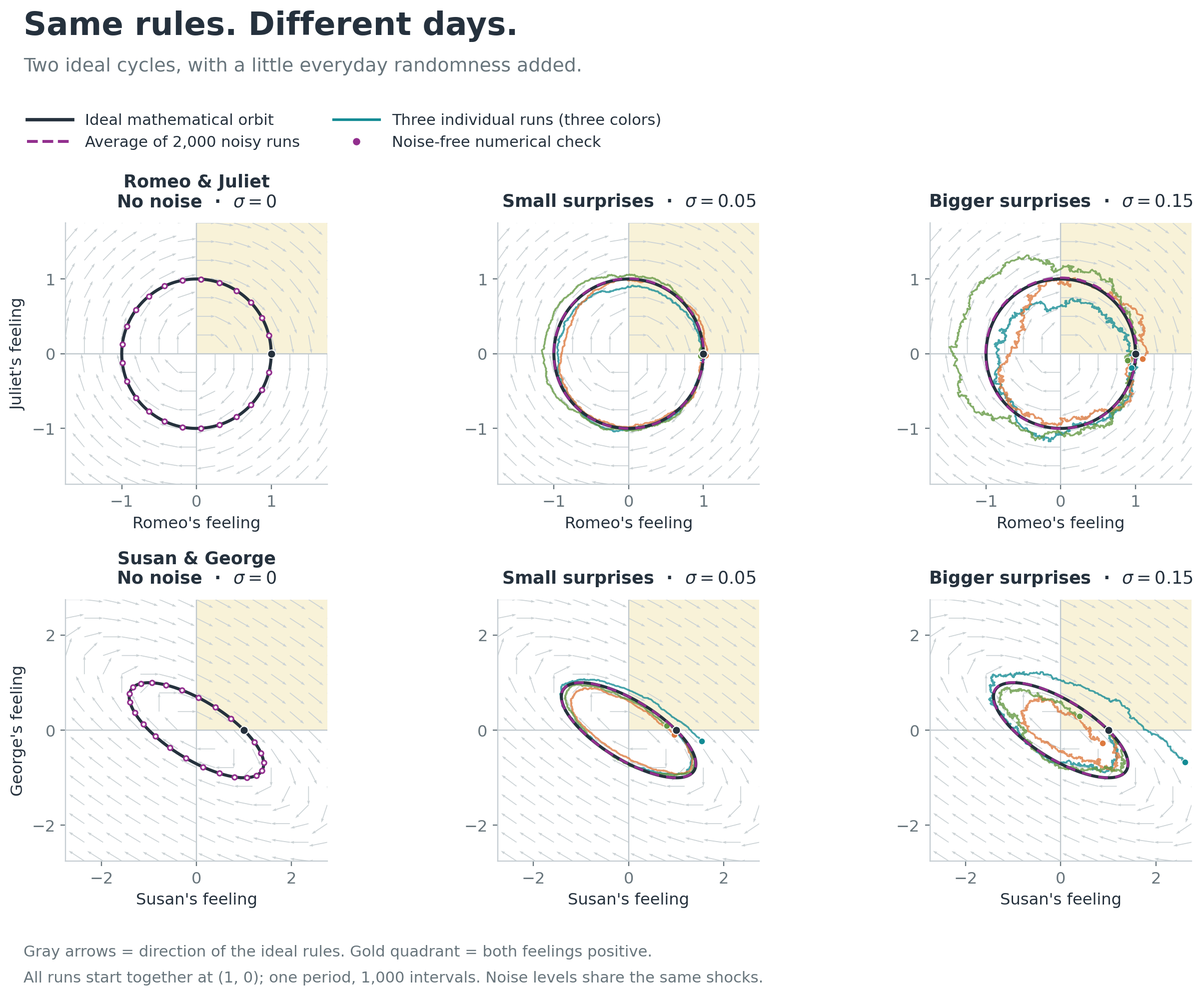
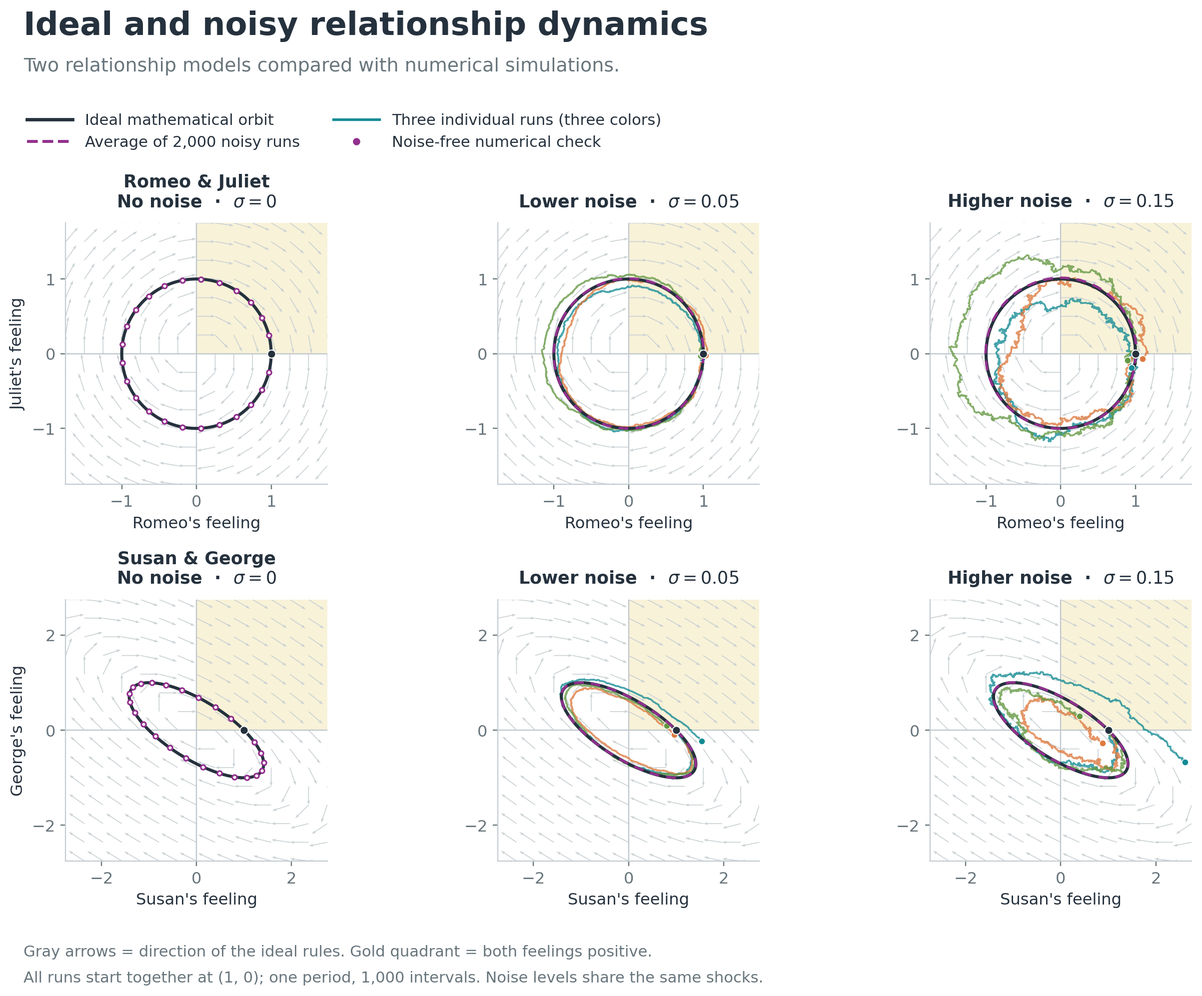
docs: write the Fable experiment in first person

diff --git a/illustrate-dynamics.py b/illustrate-dynamics.py
@@ -188,15 +188,15 @@ def save_figure(fig, directory, name):
 def noise_overlay(data, directory):
     fig, axes = plt.subplots(2, 3, figsize=(12.6, 9.65))
     fig.subplots_adjust(left=0.07, right=0.985, top=0.77, bottom=0.14, wspace=0.25, hspace=0.44)
-    fig.text(0.07, 0.98, "Same rules. Different days.", fontsize=22, weight="bold", va="top")
-    fig.text(0.07, 0.92, "Two ideal cycles, with a little everyday randomness added.", fontsize=13, color=GRAY)
+    fig.text(0.07, 0.98, "Ideal and noisy relationship dynamics", fontsize=22, weight="bold", va="top")
+    fig.text(0.07, 0.92, "Two relationship models compared with numerical simulations.", fontsize=13, color=GRAY)
     handles = [Line2D([0], [0], color=INK, lw=2.3, label="Ideal mathematical orbit"),
                Line2D([0], [0], color=MEAN, lw=2, linestyle="--", label="Average of 2,000 noisy runs"),
                Line2D([0], [0], color=PATH_COLORS[0], lw=1.8, label="Three individual runs (three colors)"),
                Line2D([0], [0], color=MEAN, marker="o", markersize=4, lw=0, label="Noise-free numerical check")]
     fig.legend(handles=handles, loc="upper left", bbox_to_anchor=(0.062, 0.892), frameon=False,
                ncol=2, fontsize=10.5, columnspacing=2.2, handlelength=3)
-    titles = ("No noise  ·  $\\sigma=0$", "Small surprises  ·  $\\sigma=0.05$", "Bigger surprises  ·  $\\sigma=0.15$")
+    titles = ("No noise  ·  $\\sigma=0$", "Lower noise  ·  $\\sigma=0.05$", "Higher noise  ·  $\\sigma=0.15$")
     for row, record in enumerate(data):
         case, exact = record["case"], record["exact"]
         A = np.asarray(case["matrix"])
@@ -252,8 +252,8 @@ def held_response(r, u, a, b, h):
 def conversation_dynamics(pilot, directory):
     fig, axes = plt.subplots(1, 2, figsize=(11.5, 6.25))
     fig.subplots_adjust(left=0.085, right=0.98, top=0.66, bottom=0.29, wspace=0.29)
-    fig.text(0.085, 0.975, "The rules made it into the conversation loop.", fontsize=20, weight="bold", va="top")
-    fig.text(0.085, 0.90, "Real generated conversations; two short runs per couple.", fontsize=12.5, color=GRAY)
+    fig.text(0.085, 0.975, "Affection after each Fable conversation", fontsize=20, weight="bold", va="top")
+    fig.text(0.085, 0.90, "Generated dialogue, two runs per couple, five attempted conversations per run.", fontsize=12.5, color=GRAY)
     handles = [Line2D([0], [0], color=INK, lw=1.7, linestyle="--", label="What the rule says"),
                Line2D([0], [0], color=RUN_COLORS[0], marker="o", markerfacecolor="white", markersize=7,
                       lw=0, label="Saved Fable feeling · run 1"),
@@ -298,14 +298,14 @@ def conversation_dynamics(pilot, directory):
         if panel == 0:
             ax.set_ylim(-0.08, 1.12)
             ax.set_yticks([0, 0.5, 1])
-            ax.set_title("Susan: a crush feeds itself\n$s_k=\\min(1,\\,0.2e^{0.5k})$", weight="bold", pad=12)
+            ax.set_title("Susan: affection grows without input\n$s_k=\\min(1,\\,0.2e^{0.5k})$", weight="bold", pad=12)
             ax.axhline(1, color=GRAY, lw=0.8, alpha=0.6)
             ax.annotate("Both runs overlap", (2, values[2]), xytext=(0.9, 0.9),
                         arrowprops={"arrowstyle": "-", "color": GRAY, "lw": 0.8}, fontsize=10, color=GRAY)
         else:
             ax.set_ylim(-1.12, 0.12)
             ax.set_yticks([-1, -0.5, 0])
-            ax.set_title("Juliet: warmth makes her retreat\n$j_{k+1}=\\max(-1,\\,j_k-0.5u_k)$", weight="bold", pad=12)
+            ax.set_title("Juliet: affection falls with rated warmth\n$j_{k+1}=\\max(-1,\\,j_k-0.5u_k)$", weight="bold", pad=12)
             ax.axhline(-1, color=GRAY, lw=0.8, alpha=0.6)
     fig.text(0.085, 0.135, "Here, $u$ is the appraiser's warmth rating of Romeo's speech; George's rated warmth stayed at 0.",
              fontsize=10.5, color=GRAY)

diff --git a/article-obsidian.md b/article-obsidian.md
@@ -1,49 +1,49 @@
-# Love, feedback, and George Costanza
+# Testing relationship models in Fable
 
 *Influenced by PHYS 4410 Nonlinear Dynamics.*
 
-A fictional relationship is a feedback loop with a memory. Someone leans in; the other backs off. That retreat changes the next conversation. Repeat often enough and you get devotion, indifference, or an entire sitcom.
+I wanted to see whether the relationship models from class would still work when the characters had to talk to each other. I tested this in Fable, where characters converse, react, and carry their history into the next encounter. I used Romeo and Juliet, plus the George-and-Susan example from *Seinfeld*, and added a numerical feeling toward the other person.
 
-Fable makes this something we can experiment with. Its characters bring personalities, needs, and memories into conversations, then react to what happened. Here we add a numerical feeling toward the other person and a rule for how it changes. **Can a relationship pattern from a few equations survive contact with actual dialogue?**
+I started by checking the equations on their own. Positive feelings mean affection, negative feelings mean hostility, and zero means indifference. The two directions are separate: Susan liking George says nothing about George liking Susan.
 
-Start with a feeling as a number: positive means affection, negative means hostility, and zero means indifference. Each direction belongs to a different person. Susan liking George says nothing about George liking Susan.
+The rule is $\dot r=ar+bu$. A feeling’s rate of change depends on its current value and an input from the partner. The first term can reinforce or fade an existing feeling; the second can reciprocate or oppose the input. In the mathematical version, that input is the partner’s current feeling.
 
-The rule is $\dot r=ar+bu$: the rate of change in a feeling combines its own momentum with a response to the partner. The first term can reinforce or fade an existing feeling; the second can reciprocate or oppose the incoming signal. In the mathematical version, that signal is the partner’s current feeling.
+Romeo reciprocates Juliet’s feelings, while Juliet opposes Romeo’s. Their feelings cycle rather than settling. Susan’s feelings reinforce themselves and respond twice as strongly to George. George’s feelings fade on their own and oppose Susan’s. These rules also produce a cycle, with a different shape. Other choices give different outcomes: cautious reciprocators can approach indifference, while reinforcing an oscillation can produce an expanding spiral.
 
-Romeo responds positively to Juliet, while Juliet reacts against Romeo. When he warms up, she cools down; eventually her coldness cools him down, giving her room to warm up again. The equations produce a repeating loop. In the Susan–George example from *Seinfeld*, Susan’s feelings reinforce themselves and respond twice as strongly to George. George’s feelings fade on their own and oppose Susan’s. That also produces a loop, with considerably worse timing.
+Both ideal cycles take $2\pi$ units of model time. Romeo and Juliet are simultaneously affectionate for **25%** of a cycle; Susan and George are for **12.5%**.
 
-Both ideal cycles take $2\pi$ units of model time. Romeo and Juliet are simultaneously affectionate for **25%** of a cycle; Susan and George manage **12.5%**. Different rules give other familiar stories: two cautious reciprocators can settle into indifference, while stronger reinforcement can turn oscillation into an expanding spiral.
+![Ideal relationship cycles and their vector fields, overlaid with simulations at three noise levels.](https://raw.githubusercontent.com/twgao/relationship-modeling/main/figures/08-noise-overlay.png)
 
-![Ideal relationship loops and their vector fields, overlaid with simulations at three noise levels.](https://raw.githubusercontent.com/twgao/relationship-modeling/main/figures/08-noise-overlay.png)
+*Each point represents both characters’ feelings. Arrows show the direction of change. Black curves are the mathematical predictions; colored paths are individual simulations; dashed curves are their averages.*
 
-*Each point is a pair of feelings. The arrows show where the equations push that pair next. Black curves are the ideal loops; colored paths are individual simulations; the dashed curve is the average.*
+**The simulations without noise reproduce the predicted cycles.** I then added small, zero-mean Gaussian disturbances to each feeling while keeping the starting values fixed. Variance describes how widely those disturbances vary; tripling the noise strength multiplies their variance by nine.
 
-**The numerical simulations reproduce those ideal loops.** The noise-free points sit on the mathematical curves. Then we keep the same starting feelings and add random disturbances: small, zero-mean Gaussian pushes to each person. The noise strength sets their size: tripling it multiplies the variance—the spread around zero—by nine.
+I ran **8,000 noisy trajectories**: 2,000 per couple at each of two noise levels ($\sigma=0.05$ and $0.15$), plus two checks without noise. Each runs for one ideal cycle. Larger noise spreads out the individual paths, while their average stays close to the ideal curve. More simulations estimate the spread more precisely; they do not reduce it.
 
-The overlay uses **8,000 noisy trajectories**: 2,000 per couple at each of two noise levels ($\sigma=0.05$ and $0.15$), plus two noise-free checks. Each runs for one ideal cycle. Larger noise spreads out individual stories, while the average remains close to the ideal path. More simulations estimate that spread more precisely; they do not make individual stories less noisy.
+I also measured the time spent mutually affectionate. At the higher noise level, Romeo–Juliet averaged **22.6%** of a cycle, with the middle 95% of runs ranging from 13.5–29.0%. Susan–George averaged **9.7%**, with a middle 95% range of 0–15.2%. These ranges describe differences between runs. The average curve can look ideal while individual couples spend less time mutually affectionate.
 
-At the higher noise level, Romeo–Juliet spent an average **22.6%** of the cycle mutually affectionate; the middle 95% of runs ranged from 13.5–29.0%. Susan–George averaged **9.7%**, with a range of 0–15.2% for the middle 95%. Those ranges describe individual stories. The average orbit can look ideal while couples spend less time liking each other.
+To connect this to Fable, I changed the input to **warmth expressed in the partner’s words**. I used the existing pipeline: **Jev → sampled approach → conversation → appraisal → updated feelings**. Jev rates approaches using one character’s current feelings and context. A sampled approach guides Kimi, which writes both voices. Scout assesses the exchange and supplies a warmth rating supported by an exact quote. The response rule updates affection, and the new feeling and conversation history feed the next encounter.
 
-For Fable, the incoming signal becomes **warmth expressed in the partner’s words**. The loop is **Jev → sampled approach → conversation → appraisal → updated feelings**. Jev rates approaches using one character’s current feelings and context. A sampled approach guides Kimi, which writes both voices. Scout then assesses the exchange and supplies a warmth rating supported by an exact quote. The response rule converts that rating into a change in affection; the new feeling and conversation history feed the next encounter.
+I bounded the added affection score between −1 and +1 and kept it separate from Fable’s ordinary relationship score. I assigned the response rules directly and checked whether the recorded updates followed them.
 
-We bound this added affection score between −1 and +1 and keep it separate from Fable’s ordinary relationship score. The characters’ response rules are deliberately assigned. We are testing what those rules do through conversation, rather than discovering anyone’s personality from dialogue.
-
-The pilot ran **four short trajectories: two per couple, five attempted conversations each**. That meant 20 attempts, 19 accepted conversations, and 60 model requests. One failed validation and changed no state; each accepted conversation advanced half a unit of model time. These runs added **no Gaussian noise**: variation came from the sampled approaches, generated dialogue, and model ratings.
+The pilot had **four trajectories: two per couple, five attempted conversations each**. That produced 20 attempts, 19 accepted conversations, and 60 model requests. One failed validation and changed no state. Each accepted conversation advanced half a unit of model time. I added **no Gaussian noise** here; variation came from sampled approaches, generated dialogue, and model ratings.
 
 ![Recorded Fable affection updates compared with their assigned response rules.](https://raw.githubusercontent.com/twgao/relationship-modeling/main/figures/09-conversation-dynamics.png)
 
-*Replaying the assigned rule on the recorded warmth ratings matches the saved states. This checks the response mechanism, not a complete conversational cycle.*
+*Replaying the assigned rule on the recorded warmth ratings matches the saved states. This verifies the updates without establishing a full conversational cycle.*
 
-Susan’s two traces follow the same predicted rise, $0.2e^t$, until they hit the upper bound. Every George-to-Susan warmth rating was zero: her own emotional momentum drove the increase. Juliet’s affection fell when Romeo’s words were rated warm, exactly as her contrarian rule requires.
+Susan’s two traces follow the predicted rise, $0.2e^t$, until they hit the upper bound. Every George-to-Susan warmth rating was zero, so her increase came entirely from self-reinforcement. Juliet’s affection fell when Romeo’s words were rated warm, as her response rule requires.
 
-George provided the most compact demonstration:
+In one exchange:
 
 > **Susan:** “We could just sit for a bit. No perfect sentences required.”
 >
 > **George:** “That's... a novel approach. I think I can manage that.”
 
-Scout rated Susan’s words as warm. George’s assigned rule then moved his affection from **0 to −0.393**. His polite reply had already happened; the numerical reaction would inform the next conversation. Apparently, agreeing to sit together can still be a setback on George’s affection graph.
+Scout rated Susan’s words as warm. George’s assigned rule then moved his affection from **0 to −0.393**. His reply was generated before this update.
 
-The language measurement needs work: **31 of 38 accepted directional ratings were zero; the other seven were one**. Distinct conversations often became the same number. Updating between conversations also changes the dynamics, and these runs cover less than half an ideal cycle. The mathematical cycles are reproduced; the Fable pilot verifies the assigned response rules working on dialogue. Whether longer runs with better-calibrated warmth ratings sustain those cycles remains an open—and much more interesting—test.
+The warmth measurement was coarse: **31 of 38 accepted directional ratings were zero; the other seven were one**. Different conversations often became the same number. Updating between conversations also changes the dynamics, and these runs cover less than half an ideal cycle.
+
+I reproduced the mathematical cycles and verified the assigned response rules operating on real generated dialogue. I would need longer runs and better-calibrated warmth ratings before claiming that the conversations reproduce complete cycles.
 
 Code, results, and graphs are on [GitHub](https://github.com/twgao/relationship-modeling).

diff --git a/article.md b/article.md
@@ -1,49 +1,49 @@
-# Love, feedback, and George Costanza
+# Testing relationship models in Fable
 
 *Influenced by PHYS 4410 Nonlinear Dynamics.*
 
-A fictional relationship is a feedback loop with a memory. Someone leans in; the other backs off. That retreat changes the next conversation. Repeat often enough and you get devotion, indifference, or an entire sitcom.
+I wanted to see whether the relationship models from class would still work when the characters had to talk to each other. I tested this in Fable, where characters converse, react, and carry their history into the next encounter. I used Romeo and Juliet, plus the George-and-Susan example from *Seinfeld*, and added a numerical feeling toward the other person.
 
-Fable makes this something we can experiment with. Its characters bring personalities, needs, and memories into conversations, then react to what happened. Here we add a numerical feeling toward the other person and a rule for how it changes. **Can a relationship pattern from a few equations survive contact with actual dialogue?**
+I started by checking the equations on their own. Positive feelings mean affection, negative feelings mean hostility, and zero means indifference. The two directions are separate: Susan liking George says nothing about George liking Susan.
 
-Start with a feeling as a number: positive means affection, negative means hostility, and zero means indifference. Each direction belongs to a different person. Susan liking George says nothing about George liking Susan.
+The rule is $\dot r=ar+bu$. A feeling’s rate of change depends on its current value and an input from the partner. The first term can reinforce or fade an existing feeling; the second can reciprocate or oppose the input. In the mathematical version, that input is the partner’s current feeling.
 
-The rule is $\dot r=ar+bu$: the rate of change in a feeling combines its own momentum with a response to the partner. The first term can reinforce or fade an existing feeling; the second can reciprocate or oppose the incoming signal. In the mathematical version, that signal is the partner’s current feeling.
+Romeo reciprocates Juliet’s feelings, while Juliet opposes Romeo’s. Their feelings cycle rather than settling. Susan’s feelings reinforce themselves and respond twice as strongly to George. George’s feelings fade on their own and oppose Susan’s. These rules also produce a cycle, with a different shape. Other choices give different outcomes: cautious reciprocators can approach indifference, while reinforcing an oscillation can produce an expanding spiral.
 
-Romeo responds positively to Juliet, while Juliet reacts against Romeo. When he warms up, she cools down; eventually her coldness cools him down, giving her room to warm up again. The equations produce a repeating loop. In the Susan–George example from *Seinfeld*, Susan’s feelings reinforce themselves and respond twice as strongly to George. George’s feelings fade on their own and oppose Susan’s. That also produces a loop, with considerably worse timing.
+Both ideal cycles take $2\pi$ units of model time. Romeo and Juliet are simultaneously affectionate for **25%** of a cycle; Susan and George are for **12.5%**.
 
-Both ideal cycles take $2\pi$ units of model time. Romeo and Juliet are simultaneously affectionate for **25%** of a cycle; Susan and George manage **12.5%**. Different rules give other familiar stories: two cautious reciprocators can settle into indifference, while stronger reinforcement can turn oscillation into an expanding spiral.
+![Ideal relationship cycles and their vector fields, overlaid with simulations at three noise levels.](figures/08-noise-overlay.png)
 
-![Ideal relationship loops and their vector fields, overlaid with simulations at three noise levels.](figures/08-noise-overlay.png)
+*Each point represents both characters’ feelings. Arrows show the direction of change. Black curves are the mathematical predictions; colored paths are individual simulations; dashed curves are their averages.*
 
-*Each point is a pair of feelings. The arrows show where the equations push that pair next. Black curves are the ideal loops; colored paths are individual simulations; the dashed curve is the average.*
+**The simulations without noise reproduce the predicted cycles.** I then added small, zero-mean Gaussian disturbances to each feeling while keeping the starting values fixed. Variance describes how widely those disturbances vary; tripling the noise strength multiplies their variance by nine.
 
-**The numerical simulations reproduce those ideal loops.** The noise-free points sit on the mathematical curves. Then we keep the same starting feelings and add random disturbances: small, zero-mean Gaussian pushes to each person. The noise strength sets their size: tripling it multiplies the variance—the spread around zero—by nine.
+I ran **8,000 noisy trajectories**: 2,000 per couple at each of two noise levels ($\sigma=0.05$ and $0.15$), plus two checks without noise. Each runs for one ideal cycle. Larger noise spreads out the individual paths, while their average stays close to the ideal curve. More simulations estimate the spread more precisely; they do not reduce it.
 
-The overlay uses **8,000 noisy trajectories**: 2,000 per couple at each of two noise levels ($\sigma=0.05$ and $0.15$), plus two noise-free checks. Each runs for one ideal cycle. Larger noise spreads out individual stories, while the average remains close to the ideal path. More simulations estimate that spread more precisely; they do not make individual stories less noisy.
+I also measured the time spent mutually affectionate. At the higher noise level, Romeo–Juliet averaged **22.6%** of a cycle, with the middle 95% of runs ranging from 13.5–29.0%. Susan–George averaged **9.7%**, with a middle 95% range of 0–15.2%. These ranges describe differences between runs. The average curve can look ideal while individual couples spend less time mutually affectionate.
 
-At the higher noise level, Romeo–Juliet spent an average **22.6%** of the cycle mutually affectionate; the middle 95% of runs ranged from 13.5–29.0%. Susan–George averaged **9.7%**, with a range of 0–15.2% for the middle 95%. Those ranges describe individual stories. The average orbit can look ideal while couples spend less time liking each other.
+To connect this to Fable, I changed the input to **warmth expressed in the partner’s words**. I used the existing pipeline: **Jev → sampled approach → conversation → appraisal → updated feelings**. Jev rates approaches using one character’s current feelings and context. A sampled approach guides Kimi, which writes both voices. Scout assesses the exchange and supplies a warmth rating supported by an exact quote. The response rule updates affection, and the new feeling and conversation history feed the next encounter.
 
-For Fable, the incoming signal becomes **warmth expressed in the partner’s words**. The loop is **Jev → sampled approach → conversation → appraisal → updated feelings**. Jev rates approaches using one character’s current feelings and context. A sampled approach guides Kimi, which writes both voices. Scout then assesses the exchange and supplies a warmth rating supported by an exact quote. The response rule converts that rating into a change in affection; the new feeling and conversation history feed the next encounter.
+I bounded the added affection score between −1 and +1 and kept it separate from Fable’s ordinary relationship score. I assigned the response rules directly and checked whether the recorded updates followed them.
 
-We bound this added affection score between −1 and +1 and keep it separate from Fable’s ordinary relationship score. The characters’ response rules are deliberately assigned. We are testing what those rules do through conversation, rather than discovering anyone’s personality from dialogue.
-
-The pilot ran **four short trajectories: two per couple, five attempted conversations each**. That meant 20 attempts, 19 accepted conversations, and 60 model requests. One failed validation and changed no state; each accepted conversation advanced half a unit of model time. These runs added **no Gaussian noise**: variation came from the sampled approaches, generated dialogue, and model ratings.
+The pilot had **four trajectories: two per couple, five attempted conversations each**. That produced 20 attempts, 19 accepted conversations, and 60 model requests. One failed validation and changed no state. Each accepted conversation advanced half a unit of model time. I added **no Gaussian noise** here; variation came from sampled approaches, generated dialogue, and model ratings.
 
 ![Recorded Fable affection updates compared with their assigned response rules.](figures/09-conversation-dynamics.png)
 
-*Replaying the assigned rule on the recorded warmth ratings matches the saved states. This checks the response mechanism, not a complete conversational cycle.*
+*Replaying the assigned rule on the recorded warmth ratings matches the saved states. This verifies the updates without establishing a full conversational cycle.*
 
-Susan’s two traces follow the same predicted rise, $0.2e^t$, until they hit the upper bound. Every George-to-Susan warmth rating was zero: her own emotional momentum drove the increase. Juliet’s affection fell when Romeo’s words were rated warm, exactly as her contrarian rule requires.
+Susan’s two traces follow the predicted rise, $0.2e^t$, until they hit the upper bound. Every George-to-Susan warmth rating was zero, so her increase came entirely from self-reinforcement. Juliet’s affection fell when Romeo’s words were rated warm, as her response rule requires.
 
-George provided the most compact demonstration:
+In one exchange:
 
 > **Susan:** “We could just sit for a bit. No perfect sentences required.”
 >
 > **George:** “That's... a novel approach. I think I can manage that.”
 
-Scout rated Susan’s words as warm. George’s assigned rule then moved his affection from **0 to −0.393**. His polite reply had already happened; the numerical reaction would inform the next conversation. Apparently, agreeing to sit together can still be a setback on George’s affection graph.
+Scout rated Susan’s words as warm. George’s assigned rule then moved his affection from **0 to −0.393**. His reply was generated before this update.
 
-The language measurement needs work: **31 of 38 accepted directional ratings were zero; the other seven were one**. Distinct conversations often became the same number. Updating between conversations also changes the dynamics, and these runs cover less than half an ideal cycle. The mathematical cycles are reproduced; the Fable pilot verifies the assigned response rules working on dialogue. Whether longer runs with better-calibrated warmth ratings sustain those cycles remains an open—and much more interesting—test.
+The warmth measurement was coarse: **31 of 38 accepted directional ratings were zero; the other seven were one**. Different conversations often became the same number. Updating between conversations also changes the dynamics, and these runs cover less than half an ideal cycle.
+
+I reproduced the mathematical cycles and verified the assigned response rules operating on real generated dialogue. I would need longer runs and better-calibrated warmth ratings before claiming that the conversations reproduce complete cycles.
 
 Code, results, and graphs are on [GitHub](https://github.com/twgao/relationship-modeling).

diff --git a/README.md b/README.md
@@ -1,4 +1,4 @@
-# Love, feedback, and George Costanza
+# Testing relationship models in Fable
 
 *Influenced by PHYS 4410 Nonlinear Dynamics.*
 
